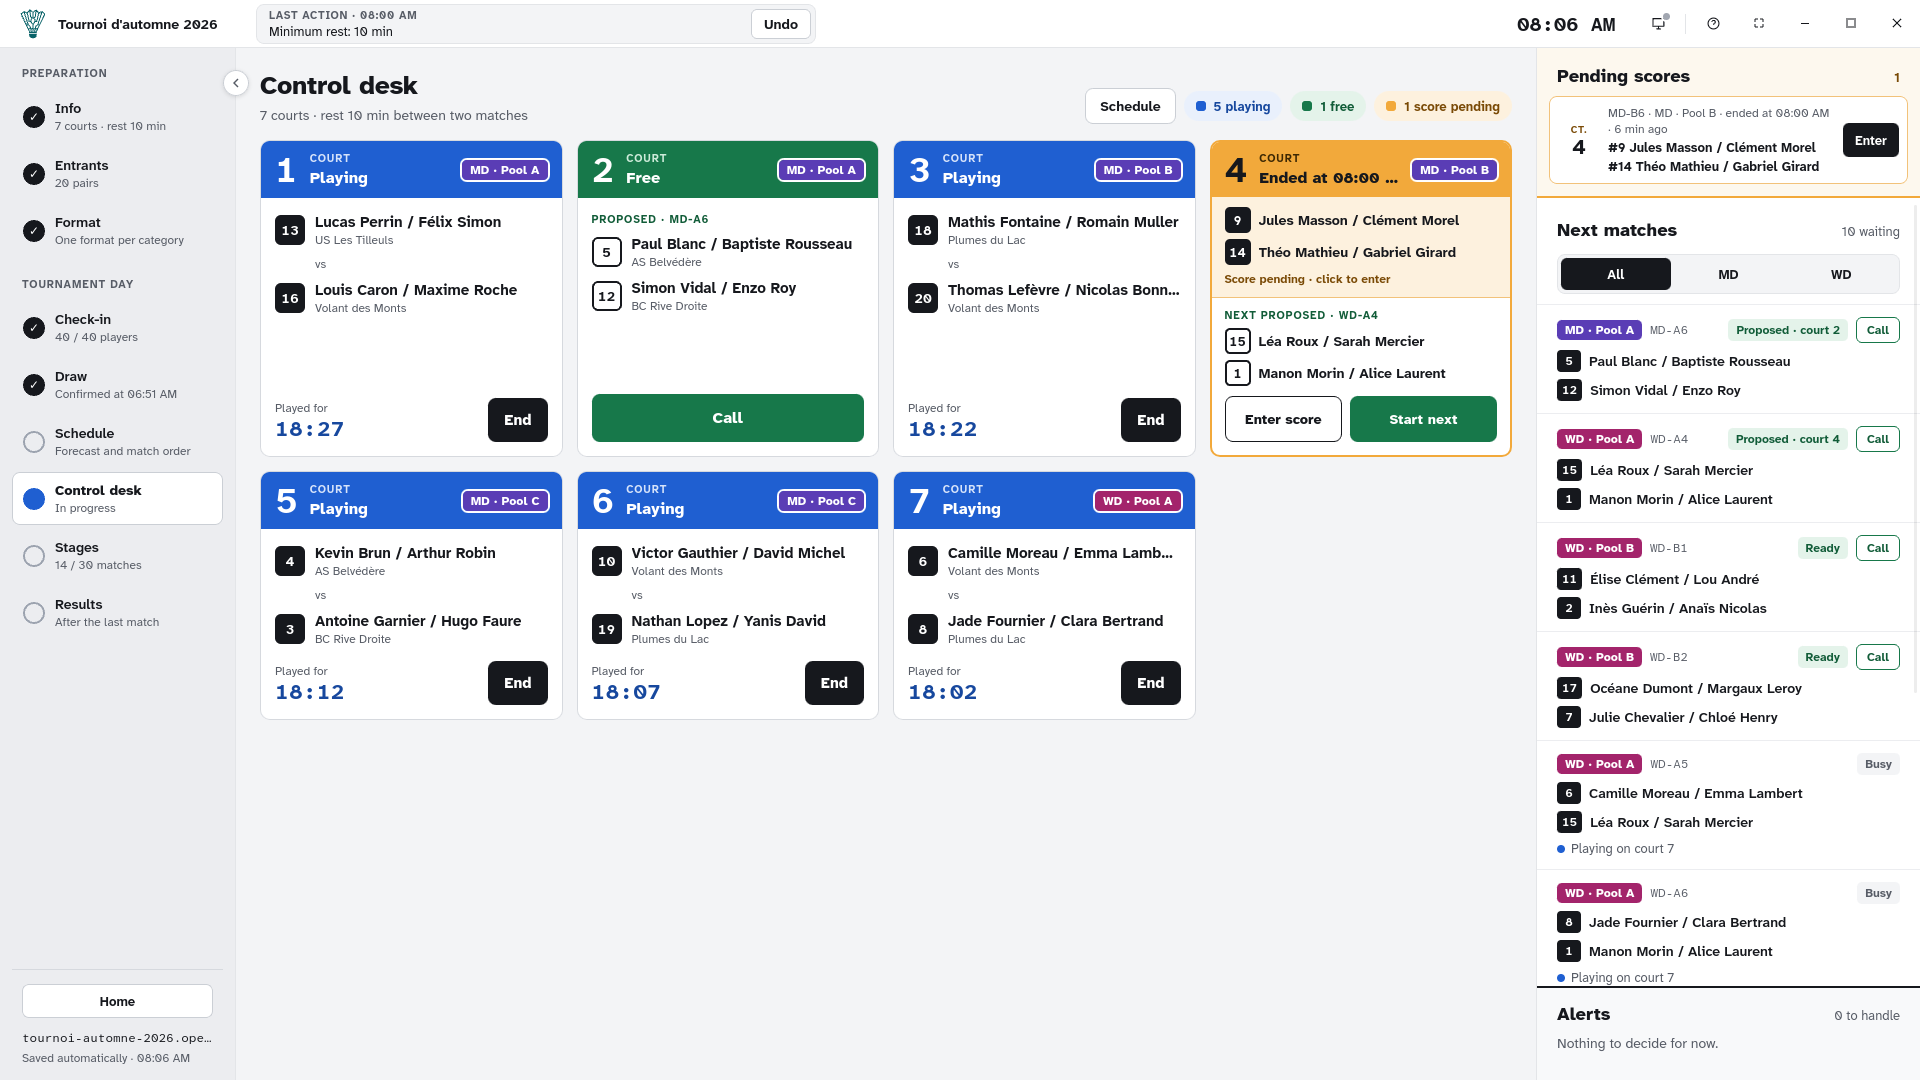
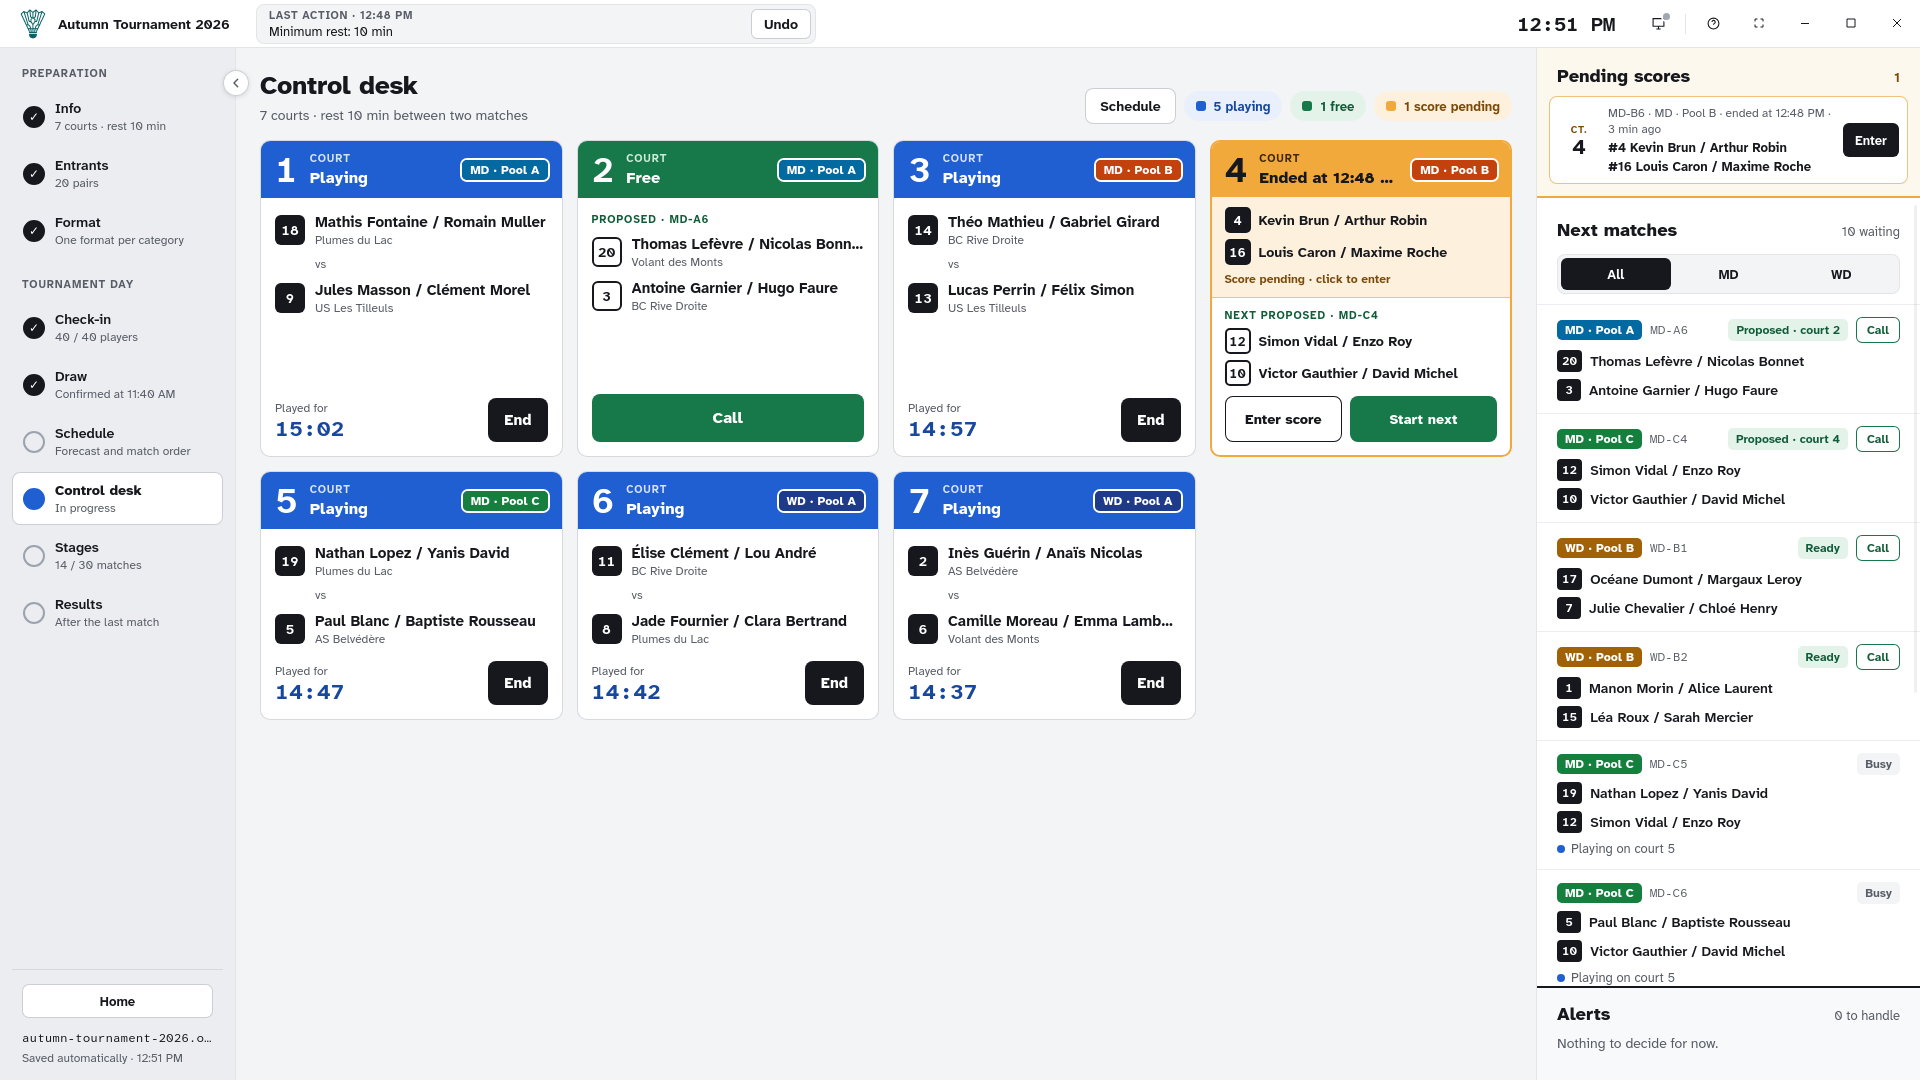
feat: retake the guide captures for desktop 1.4.0
New captures of the Info screen (date and hours), the Schedule (timeline
with a break and group colors) and the control desk and score panel
(badges colored by pool). A new capture shows the Schedule's court
rules, breaks and highlight badges.

diff --git a/src/content/guide/fr/06-echeancier.md b/src/content/guide/fr/06-echeancier.md
@@ -4,8 +4,11 @@ title: Organiser l'échéancier
 summary: Ordonner les tours dans une liste, valider, puis déplacer des matchs isolés.
 images:
   - src: ../../../assets/guide/06-schedule-fr.png
-    alt: "L’écran Échéancier : le partage des deux catégories, l’ordre des tours à gauche, la frise par terrain au milieu et les matchs restants par équipe à droite"
+    alt: "L’écran Échéancier : l’ordre des tours à gauche, la frise par terrain au milieu, avec la pause de 15 h à 16 h, et les matchs restants par équipe à droite"
     caption: "L’ordre des tours, la frise par terrain et les équipes"
+  - src: ../../../assets/guide/06-court-rules-fr.png
+    alt: "L’écran Échéancier en haut de page : la catégorie qui ouvre chaque tour, les règles de terrain (priorité aux hommes sur les terrains 1 à 3, aux dames sur les 6 et 7), les pauses et les badges de mise en évidence"
+    caption: "Les règles de terrain, les pauses et la mise en évidence"
 ---
 
 L'**Échéancier** prévoit chaque match restant, terrain par terrain, avec son heure estimée, à partir de la durée sur le terrain de chaque condition de victoire. Il fixe aussi l'ordre des appels.

diff --git a/src/content/guide/en/06-schedule.md b/src/content/guide/en/06-schedule.md
@@ -4,8 +4,11 @@ title: Set up the schedule
 summary: Order the rounds in a list, validate, then move single matches.
 images:
   - src: ../../../assets/guide/06-schedule-en.png
-    alt: "The Schedule screen: how the two categories share the courts, the order of rounds on the left, the timeline per court in the middle and the matches left per team on the right"
+    alt: "The Schedule screen: the order of rounds on the left, the timeline per court in the middle, with the 3 pm to 4 pm break, and the matches left per team on the right"
     caption: "The round order, the court timeline and the teams"
+  - src: ../../../assets/guide/06-court-rules-en.png
+    alt: "The top of the Schedule screen: which category opens each round, the court rules (priority to men's doubles on courts 1 to 3, to women's doubles on 6 and 7), the breaks and the highlight badges"
+    caption: "The court rules, the breaks and the highlight"
 ---
 
 The **Schedule** forecasts every match left, court by court, with its estimated time, from the time on court of each win condition. It also sets the order of the calls.
